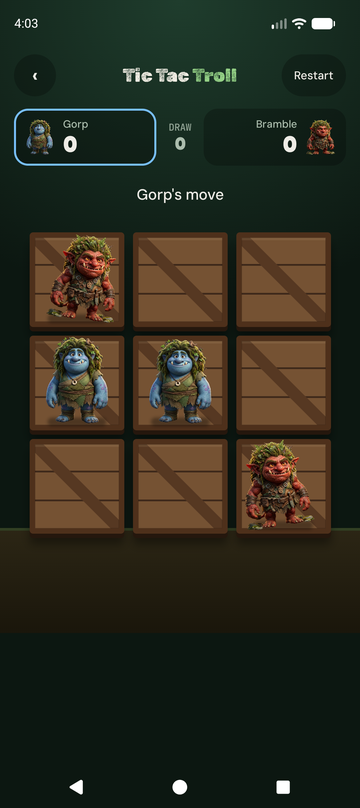
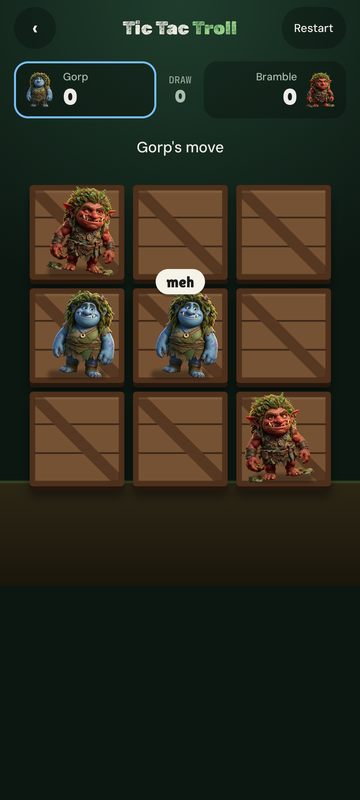
Refresh the README and its screenshots
Adds full screen and the remembered Bored trolls setting to the features,
brings the project layout up to date, and retakes the screenshots with
the new menu, animations and pops.

diff --git a/README.md b/README.md
@@ -1,20 +1,21 @@
 # Tic Tac Troll
 
-*A game of mild contempt.* Tic-tac-toe for Android, played with trolls who glance at each other, grumble "meh" and "bleh", and topple off their crates into the dirt when they lose.
+*A game of mild contempt.* Tic-tac-toe for Android, played with trolls who look each other over, grumble "meh" and "bleh", and topple off their crates into the dirt, then pop, when they lose.
 
 <p>
   <img src="docs/menu.png" width="240" alt="Menu screen with Gorp and Bramble">
   <img src="docs/game.png" width="240" alt="A game in progress on wooden crates">
-  <img src="docs/win.png" width="240" alt="Gorp wins while Bramble's trolls lie in the dirt">
+  <img src="docs/win.png" width="240" alt="Gorp wins while Bramble's trolls fall into the dirt and pop">
 </p>
 
 ## Features
 
 - **Play the CPU or a friend.** Three CPU skill levels: Easy (random), Medium (wins or blocks when it can, mostly), and Troll (minimax; never loses in classic games). Two-player mode is pass-and-play.
-- **Bored trolls mode.** Each player keeps at most three trolls. Play a fourth and your oldest gets bored and pops like a bubble, unless that fourth completes a row with it, which still wins. Games can't end in a draw. The troll about to leave is dimmed.
+- **Bored trolls mode.** Each player keeps at most three trolls. Play a fourth and your oldest gets bored and pops like a bubble, unless that fourth completes a row with it, which still wins. Games can't end in a draw. The troll about to leave is dimmed, and the setting is remembered.
 - **Trolls with attitude.** They drop onto their crates with a squash, breathe, blink, look around at each other, startle when a neighbor lands, and grumble every few seconds. Block a winning line and the blocking troll says "bleh". The troll about to get bored yawns, and Bramble's trolls look up and ponder while the CPU thinks. Losers glance at the winning line before they topple into the dirt and pop, winners hop and look down at them, and a draw gets a slow, disapproving blink, a collective stare and a "meh" from everyone.
 - **Sound.** Background music, a thunk as each troll lands, and an ending sound for every outcome: a fanfare for a win, a sad trombone for losing to the CPU, and a brass shrug for a tie. A toggle on the menu mutes everything, and the setting is remembered.
 - **Feel.** Haptic ticks as trolls land, a ghost preview while your finger is on a crate, and Bramble has opinions about the difficulty you pick.
+- **Full screen.** The status and navigation bars are hidden; swipe in from an edge to see them briefly.
 - **Accessible.** Works with TalkBack: every crate is labeled, moves (including the CPU's) are announced, and the layout holds up at large font sizes.
 - **Rematches alternate** who goes first; Restart keeps the same starter.
 
@@ -32,16 +33,19 @@ Requires Android Studio (or JDK 17+ with the Android SDK). The app runs on Andro
 
 ```
 app/src/main/java/com/nbradbury/tic_tac_troll/
-  MainActivity.kt        entry point, sound setting, screen switching
+  MainActivity.kt        entry point, full screen, saved settings, screen switching
   game/GameLogic.kt      board, rules (classic and bored trolls), win detection, CPU move selection
-  game/GameViewModel.kt  game state, turns, timers for glances, chatter and the draw sequence
-  ui/MenuScreen.kt       title, mode and skill selection, sound toggle
-  ui/GameScreen.kt       scores, board, result sheet
-  ui/Troll.kt            the animated troll and its speech bubble
+  game/GameViewModel.kt  game state, turns, and the timers behind glances, chatter, yawns and endings
+  ui/MenuScreen.kt       title, settings panel (mode, difficulty, Bored trolls), sound toggle
+  ui/GameScreen.kt       scores, board, falls and pops, result sheet
+  ui/Troll.kt            the animated troll (landing, blinking, moods, reactions) and its speech bubble
+  ui/TrollArt.kt         draws the troll art with movable irises and eyelids
   ui/Crate.kt            the wooden crate each cell is drawn as
+  ui/Components.kt       shared pieces: backdrop, title, chunky button
   ui/GameSounds.kt       sound effects and troll voices
   ui/GameHaptics.kt      haptic feedback for landings and endings
   ui/BackgroundMusic.kt  looping music tied to the app lifecycle
+  ui/theme/              colors and fonts
 ```
 
 ## Credits
